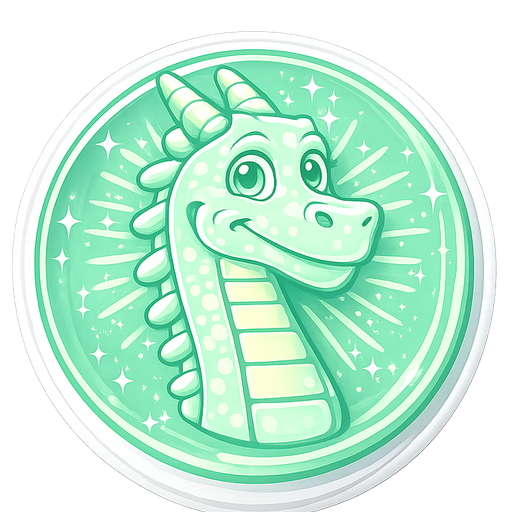
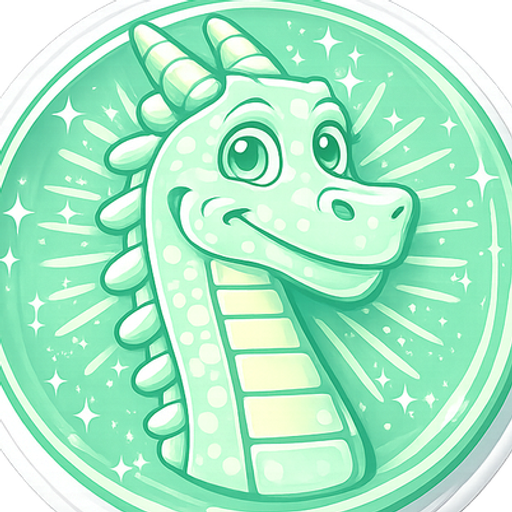
fix(brand): remove white ring from Donny emblem and fill nav button
Cropped donny-emblem.png to remove the white border ring so the green
circle fills the frame edge-to-edge. Updated DonnyNavButton to render
the emblem directly at full size instead of wrapping a smaller
DonnyAvatar in a white-bordered circle.

diff --git a/src/components/donny/DonnyNavButton.tsx b/src/components/donny/DonnyNavButton.tsx
@@ -1,5 +1,5 @@
-import { DonnyAvatar } from './DonnyAvatar';
 import { useDonnyContext } from '@/contexts/DonnyProvider';
+import donnyEmblem from '@/assets/donny-emblem.png';
 
 export function DonnyNavButton() {
   const { stage, open, close, unreadCount, avatarState } = useDonnyContext();
@@ -18,12 +18,11 @@ export function DonnyNavButton() {
       className="flex flex-col items-center -mt-4 min-h-[44px] min-w-[44px]"
       aria-label="Open Donny"
     >
-      <span className="bg-white w-14 h-14 rounded-full shadow-lg shadow-dc-teal/30 -mt-4 flex items-center justify-center border-[3px] border-white">
-        <DonnyAvatar
-          size="lg"
-          state={unreadCount > 0 ? 'action_needed' : avatarState}
-          badgeCount={unreadCount}
-          glow={unreadCount > 0}
+      <span className="w-14 h-14 rounded-full shadow-lg shadow-dc-teal/30 -mt-4 flex items-center justify-center overflow-hidden">
+        <img
+          src={donnyEmblem}
+          alt="Donny"
+          className="w-full h-full object-cover rounded-full"
         />
       </span>
     </button>
